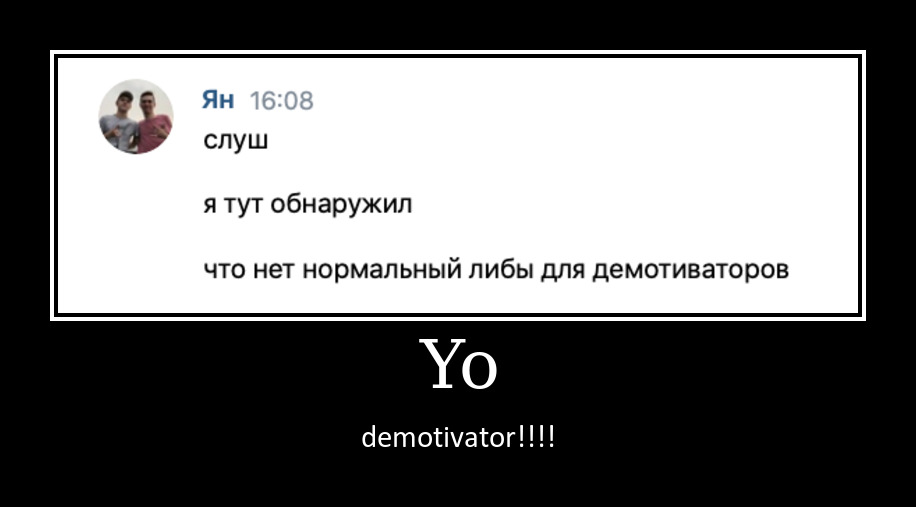
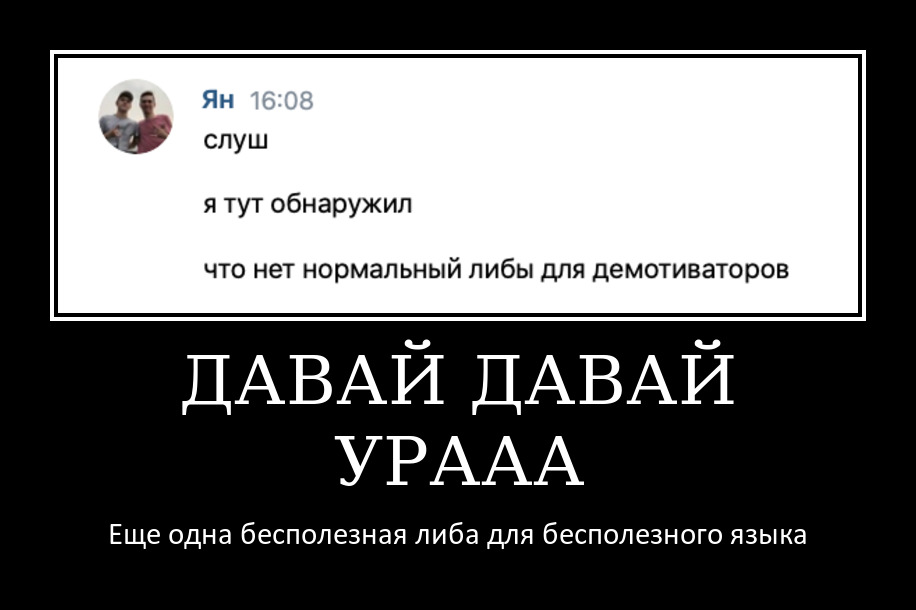
Update examples

diff --git a/examples/sync.py b/examples/sync.py
@@ -6,8 +6,8 @@ import demapi
 base_path = pathlib.Path("assets")
 conf = demapi.Configure(
     base_photo=base_path / "example_source.png",
-    title="Yo",
-    explanation="demotivator!!!!"
+    title="ДАВАЙ ДАВАЙ УРААА",
+    explanation="Еще одна бесполезная либа для бесполезного языка"
 )
 image = conf.download()
 image.save(base_path / "example.png")
